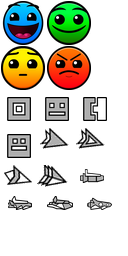
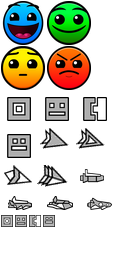
Nokodash 0.3.5: fix menu boot AIOOBE, cargo minis in menu sheet

Changed region(s): [[0.0, 0.8125, 0.4375, 0.9062]]

diff --git a/src/ndash/Kit.java b/src/ndash/Kit.java
@@ -56,8 +56,9 @@ public final class Kit {
         return Image.createRGBImage(px, w, h, true);
     }
 
-    private static Image region(Atlas atlas, String id) {
+    private static Image region(Atlas atlas, String id) throws Exception {
         int idx = atlas.find(id);
+        if (idx < 0) throw new Exception("no region " + id);
         int w = atlas.table.sw[idx];
         int h = atlas.table.sh[idx];
         return Image.createImage(atlas.sheet(),
@@ -65,12 +66,12 @@ public final class Kit {
     }
 
     /** Rebuild the tinted cache if selection changed. Call on show/boot. */
-    public static void refresh(Atlas atlas) {
+    public static void refresh(Atlas atlas) throws Exception {
         refreshFull(atlas);
     }
 
     /** Full 15-frame cache from the game atlas. */
-    public static void refreshFull(Atlas atlas) {
+    public static void refreshFull(Atlas atlas) throws Exception {
         if (cachedColor == (color & 7) && cachedCube == cube
                 && cachedShip == ship && cachedWave == wave
                 && cache[0] != null) return;
@@ -94,7 +95,7 @@ public final class Kit {
     }
 
     /** 3-frame preview cache from the menu atlas (customizer). */
-    public static void refreshPrev(Atlas atlas) {
+    public static void refreshPrev(Atlas atlas) throws Exception {
         if (prevColor == (color & 7) && prevCube == cube
                 && prevShip == ship && prevWave == wave
                 && prev[0] != null) return;

diff --git a/src/ndash/Menu.java b/src/ndash/Menu.java
@@ -57,7 +57,12 @@ public final class Menu extends Canvas {
 
     public void refresh() {
         Save.load();
-        if (ready) Kit.refreshPrev(AssetBank.menuAtlas);
+        if (ready) {
+            try {
+                Kit.refreshPrev(AssetBank.menuAtlas);
+            } catch (Throwable t) {
+            }
+        }
         repaint();
     }
 
@@ -99,7 +104,10 @@ public final class Menu extends Canvas {
                 else if (crow == 1) Kit.ship = (Kit.ship - 1 + d + 4) % 4 + 1;
                 else if (crow == 2) Kit.wave = (Kit.wave - 1 + d + 4) % 4 + 1;
                 else Kit.color = (Kit.color + d + 8) % 8;
-                Kit.refreshPrev(AssetBank.menuAtlas);
+                try {
+                    Kit.refreshPrev(AssetBank.menuAtlas);
+                } catch (Throwable t) {
+                }
                 Save.store();
                 Sfx.click();
                 repaint();

diff --git a/src/ndash/AssetBank.java b/src/ndash/AssetBank.java
@@ -22,7 +22,12 @@ public final class AssetBank {
     public static boolean bootMenu() {
         freeGame();
         if (menuAtlas != null) {
-            Kit.refreshPrev(menuAtlas);
+            try {
+                Kit.refreshPrev(menuAtlas);
+            } catch (Throwable t) {
+                lastErr = shortErr(t);
+                return false;
+            }
             return true;
         }
         try {

diff --git a/tools/mk_assets.py b/tools/mk_assets.py
@@ -172,6 +172,7 @@ for v in range(1, 5):
     MENU_IDS.add("cb%d_0" % v)
     MENU_IDS.add("sh%d_2" % v)
     MENU_IDS.add("wv%d_0" % v)
+    MENU_IDS.add("cbm%d" % v)
 
 
 def pack(sub, width, name):
